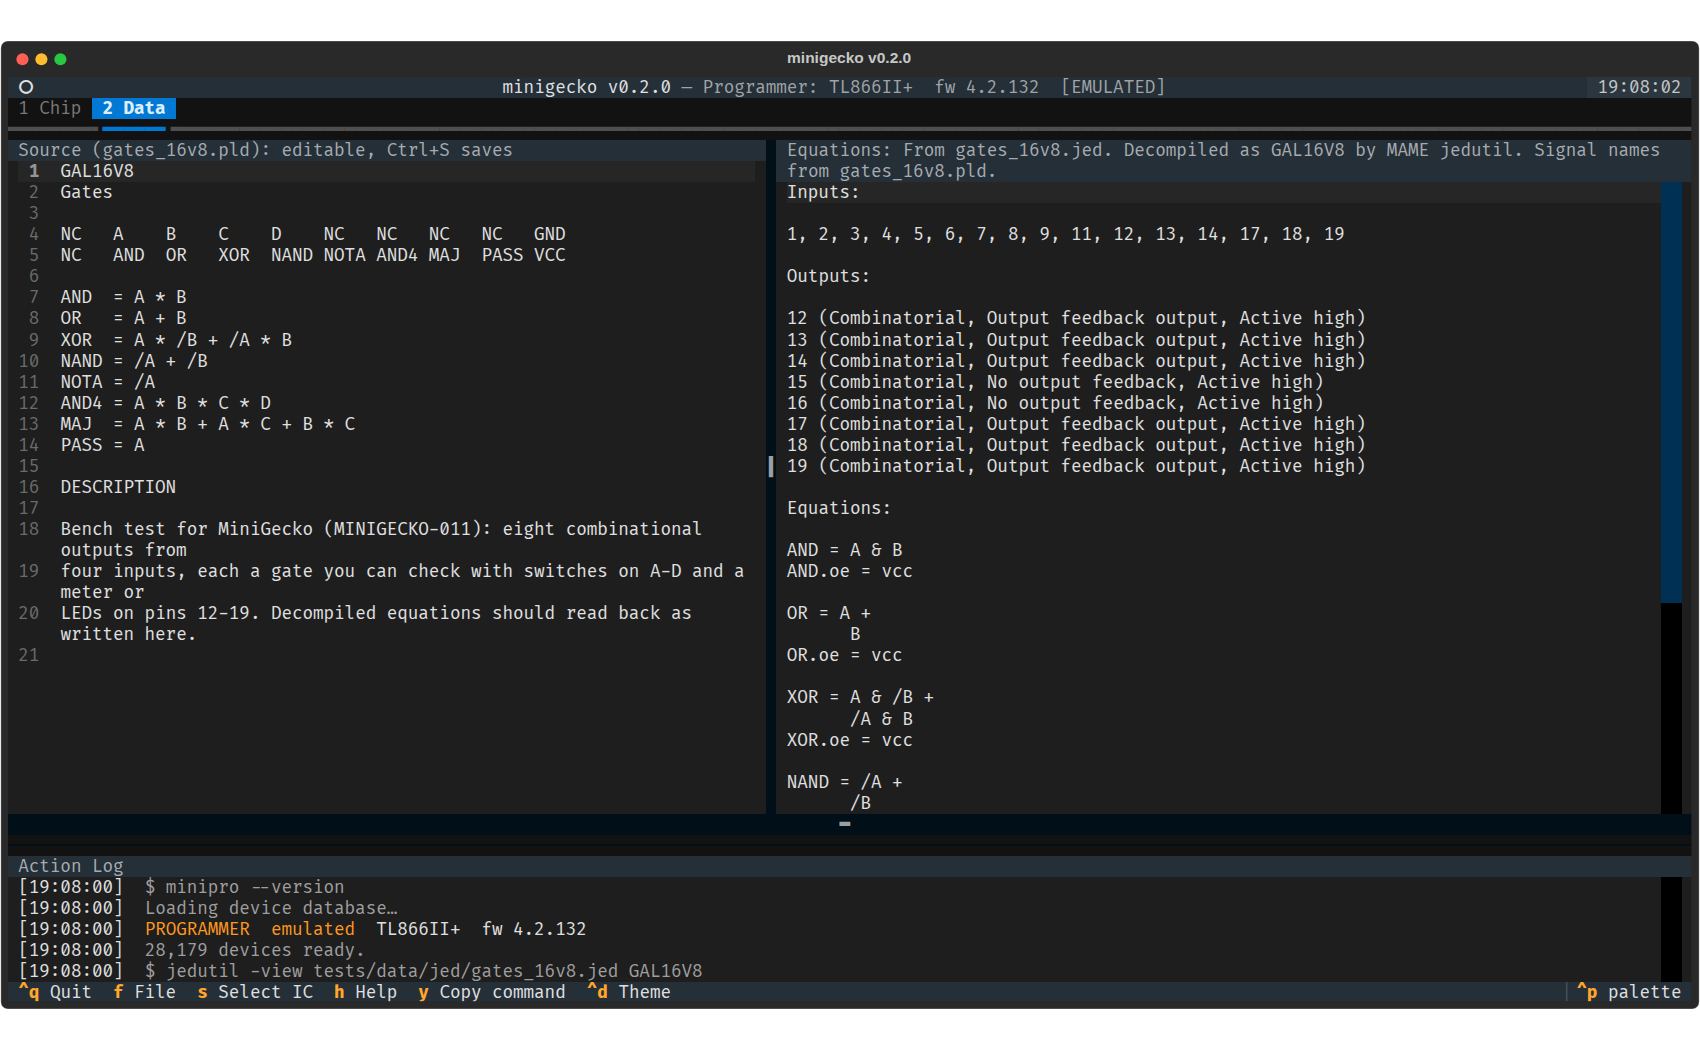
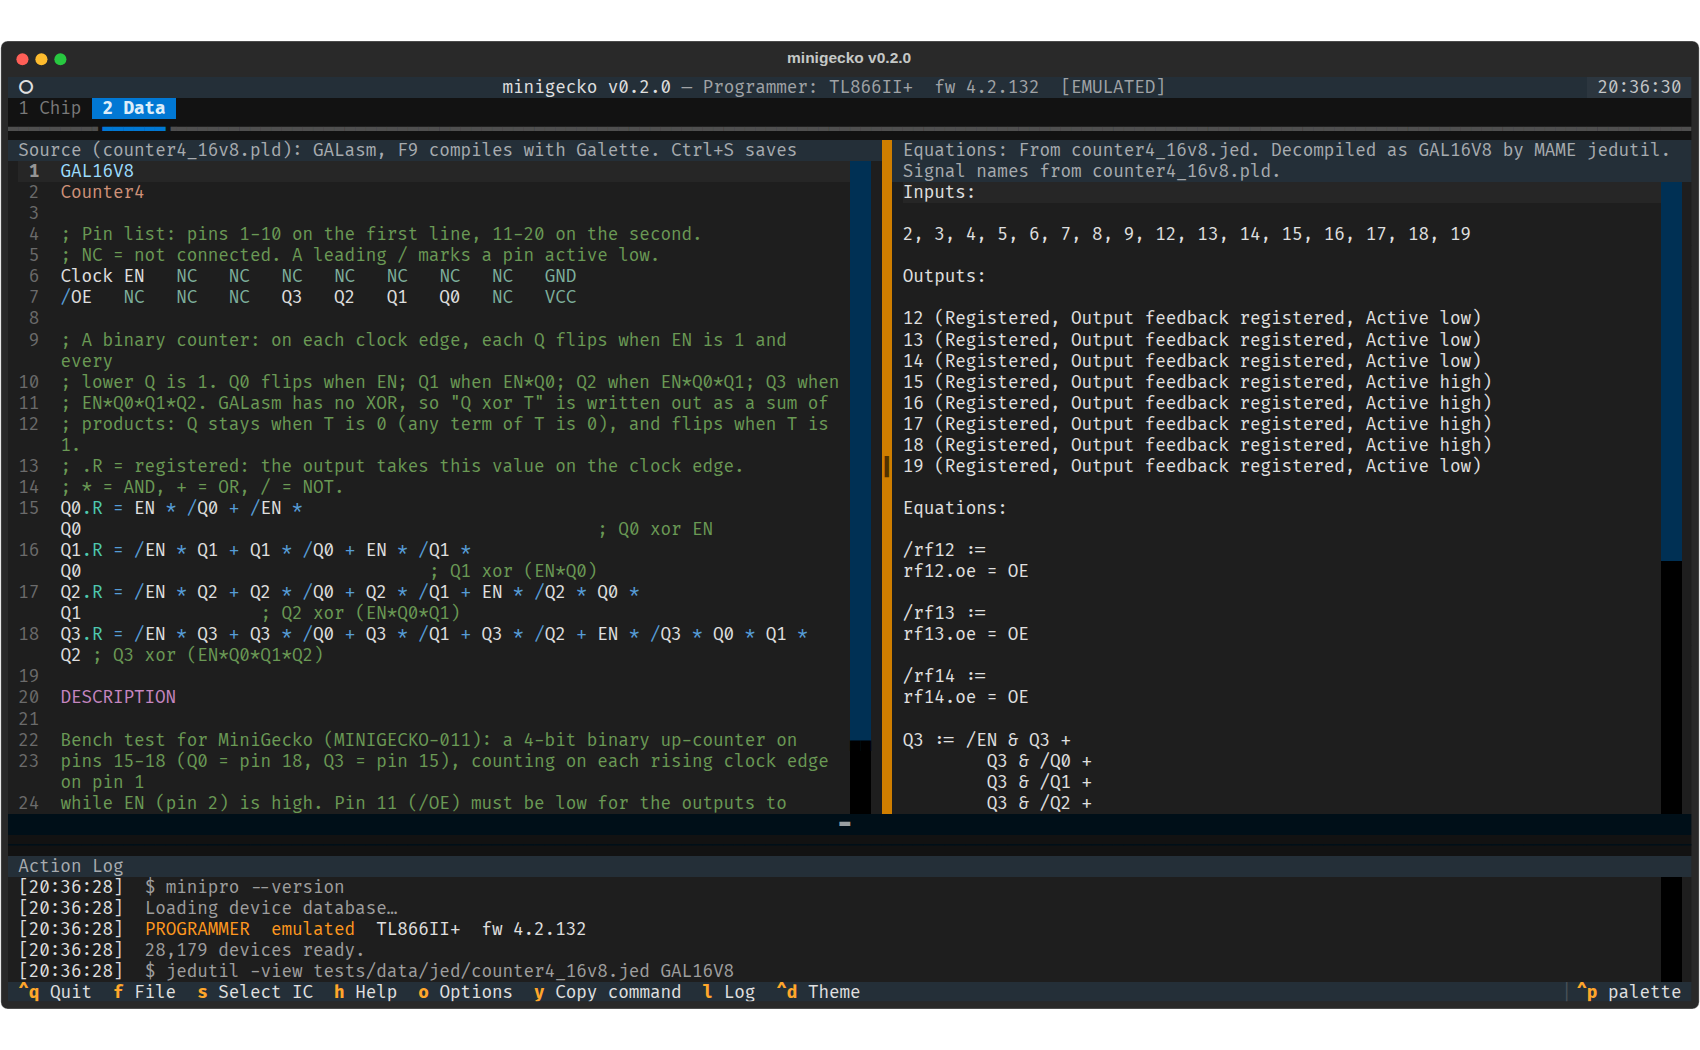
feat(ui): colour GALasm and CUPL sources in the Source pane (MINIGECKO-01D, piece 3)
PldTextArea colours a .pld by its language: comments (GALasm ';', CUPL
'/* */' across lines), keywords (DESCRIPTION; CUPL header and Pin lines),
the chip or device, the GALasm signature and description text, operators,
output suffixes (.R, .E, .OE, .D …), numbers, and NC/GND/VCC. Neither
language has a tree-sitter grammar, so it is regex-based, through
TextArea._build_highlight_map (private in Textual 8.1; a test fails if
Textual stops calling it). Other text stays plain.

diff --git a/minigecko/ui/widgets/pld_text_area.py b/minigecko/ui/widgets/pld_text_area.py
@@ -1,0 +1,146 @@
+"""A text area that colours GALasm (Galette) and CUPL (WinCUPL) sources.
+
+Neither language has a tree-sitter grammar, so the colours come from
+regular expressions, line by line. Highlight names are the ones Textual's
+editor themes already colour (comment, keyword, operator, …).
+"""
+
+from __future__ import annotations
+
+import re
+
+from textual.widgets import TextArea
+
+from minigecko.core.pld import CUPL, GALASM, pld_language
+
+# (start, end, highlight name) in UTF-8 byte offsets, as TextArea expects.
+Span = tuple[int, int, str]
+
+_OPERATORS = re.compile(r"[*+/=#&!$:]")
+_GALASM_SUFFIX = re.compile(r"\.(R|E|T|CLK|ARST|APRST)\b", re.IGNORECASE)
+_GALASM_SPECIAL = re.compile(r"\b(AR|SP)\b")
+_POWER = re.compile(r"\b(NC|GND|VCC)\b")
+_CUPL_KEYWORD = re.compile(
+    r"^\s*(Name|Partno|Date|Revision|Rev|Designer|Company|Assembly|Assy|Location|Device|"
+    r"Format|Pin|Pinnode|Field|Table|Property|Min|Sequence|Sequenced|Sequencer|"
+    r"Present|Next|Out|Default|Condition|Function|Append)\b",
+    re.IGNORECASE,
+)
+_CUPL_DEVICE = re.compile(r"^\s*device\s+(\S+?)\s*;", re.IGNORECASE)
+_CUPL_SUFFIX = re.compile(
+    r"\.(OE|D|T|J|K|S|R|L|LE|CK|CKMUX|AR|SP|AP|IO|DQ|LQ|SR|CE|INT|OEMUX|IMUX|BYP|DFB|LFB|TFB)\b",
+    re.IGNORECASE,
+)
+_CUPL_NUMBER = re.compile(r"'[bBoOdDhH]'[0-9A-Fa-fXx]+|\b\d+\b")
+
+
+def _span(line: str, start: int, end: int, name: str) -> Span:
+    """Character offsets on *line* as the byte offsets TextArea draws with."""
+    return (len(line[:start].encode()), len(line[:end].encode()), name)
+
+
+def _matches(line: str, pattern: re.Pattern, name: str, group: int = 0) -> list[Span]:
+    return [_span(line, m.start(group), m.end(group), name) for m in pattern.finditer(line)]
+
+
+def galasm_highlights(lines: list[str]) -> dict[int, list[Span]]:
+    """Colours for a GALasm source, by line index."""
+    out: dict[int, list[Span]] = {}
+    meaningful = 0  # chip, signature, two pin lists, then equations
+    in_description = False
+    for row, line in enumerate(lines):
+        spans: list[Span] = []
+        if in_description:
+            out[row] = [_span(line, 0, len(line), "comment")]
+            continue
+        code, sep, _comment = line.partition(";")
+        if sep:
+            spans.append(_span(line, len(code), len(line), "comment"))
+        stripped = code.strip()
+        if stripped:
+            if stripped == "DESCRIPTION":
+                in_description = True
+                spans.append(_span(line, code.index("DESCRIPTION"), len(code), "keyword"))
+            elif meaningful == 0:  # the chip
+                spans.append(_span(line, code.index(stripped), len(code.rstrip()), "type.builtin"))
+            elif meaningful == 1:  # the signature: free text
+                spans.append(_span(line, code.index(stripped), len(code.rstrip()), "string"))
+            else:
+                spans += _matches(code, _POWER, "constant.builtin")
+                spans += _matches(code, _OPERATORS, "keyword.operator")
+                if meaningful > 3:  # equations
+                    spans += _matches(code, _GALASM_SUFFIX, "method")
+                    spans += _matches(code, _GALASM_SPECIAL, "keyword")
+            meaningful += 1
+        if spans:
+            out[row] = spans
+    return out
+
+
+def cupl_highlights(lines: list[str]) -> dict[int, list[Span]]:
+    """Colours for a CUPL source, by line index. /* */ comments may span lines."""
+    out: dict[int, list[Span]] = {}
+    in_comment = False
+    for row, line in enumerate(lines):
+        spans: list[Span] = []
+        code_parts: list[tuple[int, str]] = []  # (offset, text) outside comments
+        pos = 0
+        while pos <= len(line):
+            if in_comment:
+                end = line.find("*/", pos)
+                stop = len(line) if end < 0 else end + 2
+                spans.append(_span(line, pos, stop, "comment"))
+                if end < 0:
+                    break
+                in_comment, pos = False, stop
+            else:
+                start = line.find("/*", pos)
+                if start < 0:
+                    code_parts.append((pos, line[pos:]))
+                    break
+                code_parts.append((pos, line[pos:start]))
+                in_comment, pos = True, start
+        for offset, part in code_parts:
+            for pattern, name in (
+                (_CUPL_NUMBER, "number"),
+                (_OPERATORS, "keyword.operator"),
+                (_CUPL_SUFFIX, "method"),
+            ):
+                for m in pattern.finditer(part):
+                    spans.append(_span(line, offset + m.start(), offset + m.end(), name))
+            if offset == 0:
+                keyword = _CUPL_KEYWORD.match(part)
+                if keyword:
+                    spans.append(_span(line, keyword.start(1), keyword.end(1), "keyword"))
+                device = _CUPL_DEVICE.match(part)
+                if device:
+                    spans.append(_span(line, device.start(1), device.end(1), "type.builtin"))
+        if spans:
+            out[row] = spans
+    return out
+
+
+class PldTextArea(TextArea):
+    """TextArea that colours GALasm and CUPL when ``pld`` is True.
+
+    Overrides TextArea._build_highlight_map, a private Textual method (8.1):
+    Textual calls it after every load and edit to fill ``_highlights``.
+    tests/test_app_tabs.py fails if a Textual update stops calling it.
+    """
+
+    pld = False  # set True for a .pld source; other text stays plain
+
+    def _build_highlight_map(self) -> None:
+        if not self.pld:
+            super()._build_highlight_map()
+            return
+        self._line_cache.clear()
+        self._highlights.clear()
+        text = self.text
+        language = pld_language(text)
+        if language is None:
+            return
+        lines = text.split("\n")
+        build = galasm_highlights if language == GALASM else cupl_highlights
+        for row, spans in build(lines).items():
+            self._highlights[row].extend(spans)

diff --git a/tests/test_app_tabs.py b/tests/test_app_tabs.py
@@ -287,3 +287,50 @@ async def test_l_hides_and_shows_the_log_and_errors_bring_it_back(app, monkeypat
         assert not log.display
         await pilot.press("l")
         assert log.display and saved[-1]["log_visible"] is True
+
+
+# --- .pld syntax colouring (MINIGECKO-01D, piece 3) --------------------------
+
+def _named(lines, highlights, row):
+    return {(lines[row].encode()[s:e].decode(), n) for s, e, n in highlights.get(row, [])}
+
+
+def test_galasm_colours():
+    from minigecko.ui.widgets.pld_text_area import galasm_highlights
+    lines = (JED.parent / "counter4_16v8.pld").read_text().split("\n")
+    h = galasm_highlights(lines)
+    assert ("GAL16V8", "type.builtin") in _named(lines, h, 0)
+    assert ("Counter4", "string") in _named(lines, h, 1)
+    eq = next(i for i, ln in enumerate(lines) if ln.startswith("Q0.R"))
+    assert {(".R", "method"), ("*", "keyword.operator"), ("; Q0 xor EN", "comment")} <= _named(lines, h, eq)
+    desc = lines.index("DESCRIPTION")
+    assert ("DESCRIPTION", "keyword") in _named(lines, h, desc)
+    assert all(n == "comment" for _, n in _named(lines, h, desc + 2))  # free text after it
+
+
+def test_cupl_colours_and_multiline_comments():
+    from minigecko.ui.widgets.pld_text_area import cupl_highlights
+    lines = ["Device g22v10 ;", "/* a comment", "   still comment */ X = A & !B ;", "Pin 3 = !MREQ ;"]
+    h = cupl_highlights(lines)
+    assert {("Device", "keyword"), ("g22v10", "type.builtin")} <= _named(lines, h, 0)
+    assert _named(lines, h, 1) == {("/* a comment", "comment")}
+    assert {("   still comment */", "comment"), ("&", "keyword.operator"), ("!", "keyword.operator")} <= _named(lines, h, 2)
+    assert {("Pin", "keyword"), ("3", "number")} <= _named(lines, h, 3)
+
+
+async def test_source_pane_is_coloured_and_other_text_is_not(app, tmp_path):
+    from minigecko.ui.widgets.pld_text_area import PldTextArea
+    notes = tmp_path / "notes.txt"
+    notes.write_text("GAL16V8\nplain words\n")
+    async with app.run_test(size=(120, 36)) as pilot:
+        await pilot.pause(0.5)
+        _load(app, JED.parent / "gates_16v8.pld")
+        await pilot.pause(0.5)
+        view = app.query_one("#jed-view", PldTextArea)
+        assert view.pld and view._highlights[0]  # Textual still builds colours through our hook
+        view.insert("; new\n", (0, 0))
+        await pilot.pause(0.1)
+        assert view._highlights[0]  # rebuilt after an edit
+        _load(app, notes)
+        await pilot.pause(0.5)
+        assert not view.pld and not any(view._highlights.values())

diff --git a/minigecko/ui/app_shell.py b/minigecko/ui/app_shell.py
@@ -25,6 +25,7 @@ from minigecko.ui.modals.help_screen import is_manual_cached, load_manual_text
 from minigecko.ui.panels import ActionLogPanel, HexPanel, ICInfoPanel
 from minigecko.ui.state import _load_state, _save_state
 from minigecko.ui.widgets import HResizeHandle, VResizeHandle
+from minigecko.ui.widgets.pld_text_area import PldTextArea
 
 logger = logging.getLogger(__name__)
 
@@ -208,7 +209,7 @@ class MinigeckoApp(App):
                     pair.display = False
                     with Vertical(id="jed-left"):
                         yield Static("Fuse map (.jed)", id="jed-title", classes="pane-title")
-                        yield TextArea("", read_only=True, id="jed-view")
+                        yield PldTextArea("", read_only=True, id="jed-view")
                     yield HResizeHandle("jed-left", id="jed-split")
                     with Vertical(id="jed-right"):
                         yield Static("Equations", id="eqn-title", classes="pane-title")
@@ -419,6 +420,8 @@ class MinigeckoApp(App):
             view = self.query_one("#jed-view", TextArea)
             view.read_only = not editable
             view.show_line_numbers = editable  # compiler errors name a line
+            # Colour a .pld source; must be set before load_text builds the colours.
+            view.pld = editable and bool(self._data_path) and self._data_path.suffix.lower() == ".pld"
             view.load_text(text)
             self._update_text_title()
         if text is not None and not solo:

diff --git a/minigecko/data/help/09-8-file-operations.md b/minigecko/data/help/09-8-file-operations.md
@@ -37,6 +37,11 @@ After a file is opened:
 A `.pld` source and any plain-text file open for editing, with line numbers.
 A `.jed`, a `.chp` and data read from a chip are read-only.
 
+A `.pld` is coloured as GALasm or CUPL, whichever its first lines say:
+comments, keywords such as `DESCRIPTION` and `Device`, operators, suffixes
+such as `.R` and `.OE`, and `NC`, `GND` and `VCC`. Its pane title names the
+compiler `F9` will use.
+
 While you type in the text, letter keys go into the text. Press `Escape` (or
 `Tab`) to leave it, so that `f`, `s`, `d` and the other keys work again.
 
